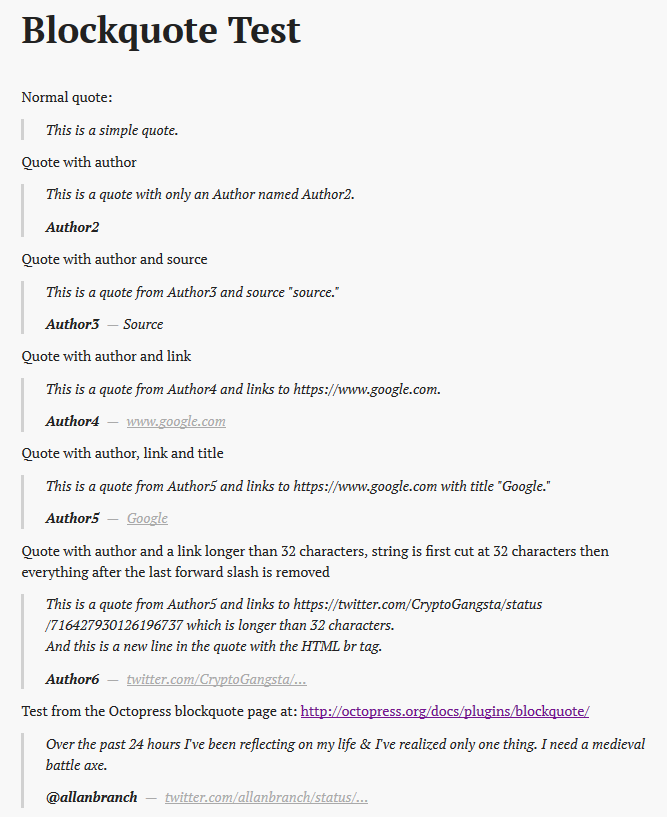
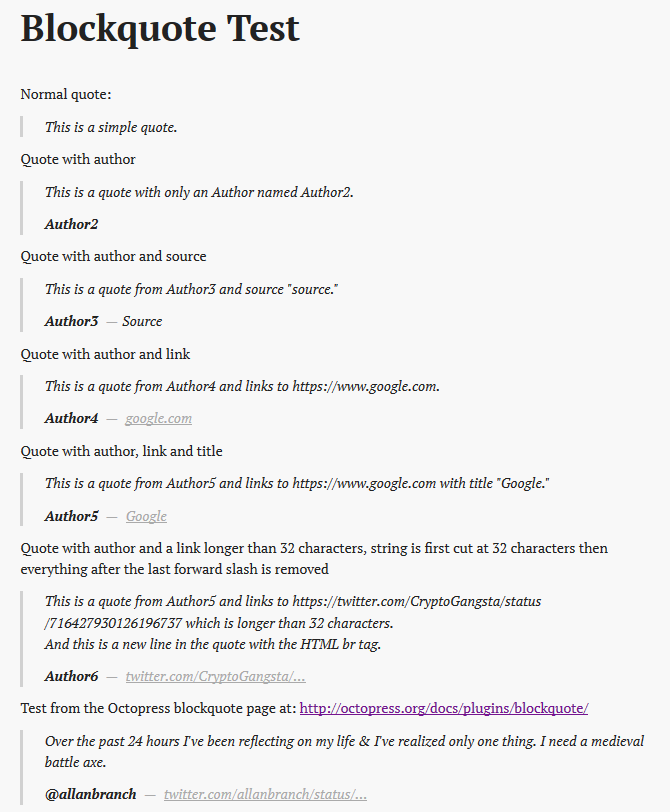
Remove www. at the start of links when shown in title. Fixes #4

diff --git a/shortcodes/blockquote.html b/shortcodes/blockquote.html
@@ -33,6 +33,9 @@
     {{ range last 1 (split ($.Scratch.Get "bl_link" ) "://") }}  <!-- split by :// and then only take the items after it to remove protocol:// -->
       {{ $.Scratch.Set "title_without_protocol" . }}
     {{ end }}
+    {{ range last 1 (split ($.Scratch.Get "title_without_protocol" ) "www.")  }} <!-- also remove the www. at the start if any. we are using a second split because all URLS may not start with it -->
+      {{ $.Scratch.Set "title_without_protocol" . }}
+    {{ end }}
     {{ $.Scratch.Set "bl_title" ($.Scratch.Get "title_without_protocol") }}
 
     <!-- if link is longer than 32 bytes we should trim it -->
